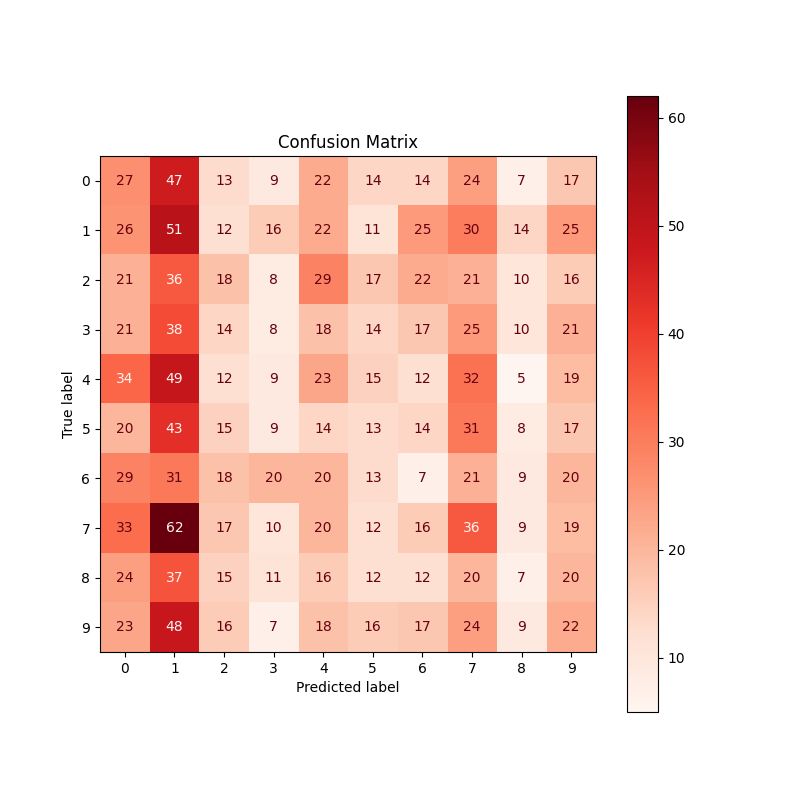
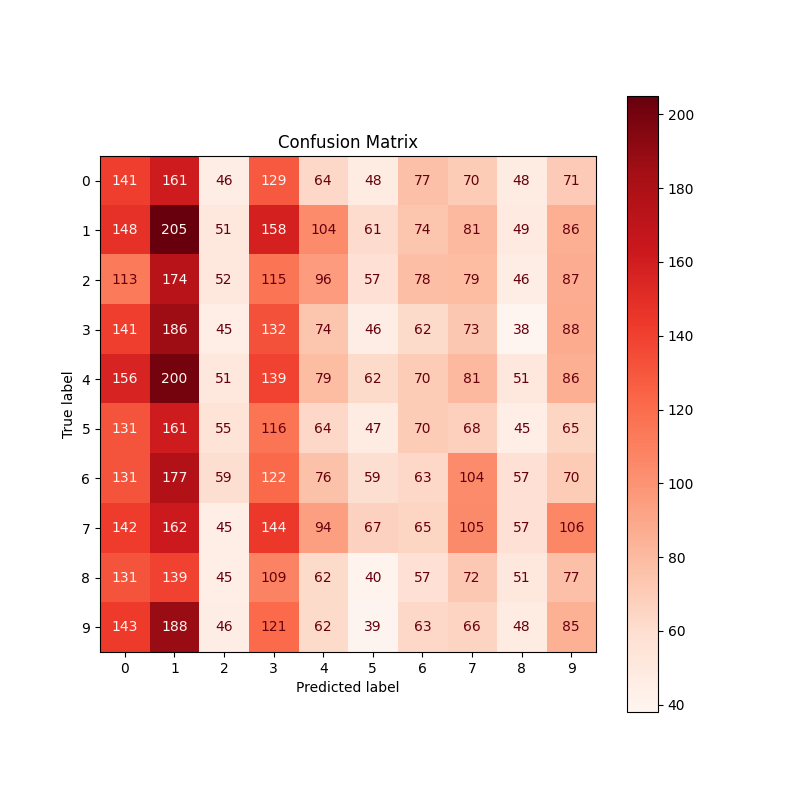
first time spike, svc with rbf kernel

diff --git a/main.py b/main.py
@@ -21,15 +21,15 @@ from collections import defaultdict
 # Device setup
 device = torch.device("cuda" if torch.cuda.is_available() else "cpu")
 if(torch.cuda.is_available):
-    torch.cuda.manual_seed(1010238)
+    torch.cuda.manual_seed(0)
 else:
-    torch.manual_seed(1010238)
+    torch.manual_seed(0)
 print(f"Using device: {device}")
 
 # Parameters
 n_epochs = 3
 update_interval = 1
-numNeurons = 121
+numNeurons = 196
 simTime = 100
 
 # Dataset and encoding
@@ -102,12 +102,35 @@ for i in range(n_epochs * len(mnist_data)):
     spike_monitor.reset_state_variables()
 
     spike_counts = spike_record.sum(0).cpu().numpy()
-    X_train.append(spike_counts)
+    # Calculate first-spike time for each neuron (if it ever spikes)
+    spike_record_np = spike_record.cpu().numpy()  # shape: (simTime, numNeurons)
+    first_spike_time = np.where(spike_record_np > 0, np.arange(simTime)[:, None], np.inf)
+    first_spike_time = first_spike_time.min(axis=0)  # shape: (numNeurons,)
+    first_spike_time[first_spike_time == np.inf] = simTime  # Use max simTime if no spike
+
+    # Combine with spike_counts for train features
+    features = np.concatenate([spike_counts, first_spike_time])
+    X_train.append(features)
     y_train.append(int(label))
 
+    #X_train.append(spike_counts)
+    #y_train.append(int(label))
+
     spike_countsT = spike_recordT.sum(0).cpu().numpy()
-    X_test.append(spike_countsT)
+    # Same thing
+    spike_recordT_np = spike_recordT.cpu().numpy()
+    first_spike_timeT = np.where(spike_recordT_np > 0, np.arange(simTime)[:, None], np.inf)
+    first_spike_timeT = first_spike_timeT.min(axis=0)
+    first_spike_timeT[first_spike_timeT == np.inf] = simTime
+    featuresT = np.concatenate([spike_countsT, first_spike_timeT])
+    X_test.append(featuresT)
     y_test.append(int(label))
+
+    #X_test.append(spike_countsT)
+    #y_test.append(int(label))
+
+
+
 
     spikes = spike_record.sum(0)
     neuron_id = spikes.argmax().item()
@@ -129,7 +152,7 @@ for i in range(numNeurons):
     if total_spikes > 0:
         label = firing_tracker[i].argmax()
         confidence = firing_tracker[i, label] / total_spikes
-        if confidence > 0.15:
+        if confidence > 0.05:
             neuron_label_map[i] = label
 
 #Old prediction method
@@ -165,6 +188,10 @@ for digit in range(10):
     acc = (correct / total * 100) if total > 0 else 0.0
     print(f"Digit {digit}: {acc:.2f}%")
 
+#prints out what neurons are labeled as
+print(Counter(list(neuron_label_map.values())))
+
+
 # Visualization
 output_dir = "outputs"
 os.makedirs(output_dir, exist_ok=True)
@@ -186,7 +213,7 @@ plt.savefig(os.path.join(output_dir, "spike_plot.png"))
 #Grab weight matrix from in to ou neurons
 #Detach goes from pytorch tensor to numpy array and .t makes them separate
 weights = network.connections["X", "Ae"].w.detach().cpu().numpy().T
-fig, axes = plt.subplots(11, 11, figsize=(10, 10))
+fig, axes = plt.subplots(14, 14, figsize=(10, 10))
 for i, ax in enumerate(axes.flatten()):
     if i < numNeurons:
         ax.imshow(weights[i].reshape(28, 28), cmap="hot")

diff --git a/rerun.py b/rerun.py
@@ -3,6 +3,9 @@ from sklearn.linear_model import LogisticRegression
 from sklearn.metrics import accuracy_score, confusion_matrix, ConfusionMatrixDisplay
 import matplotlib.pyplot as plt
 from sklearn.ensemble import RandomForestClassifier #replacement for logisitic regression
+from sklearn.preprocessing import StandardScaler
+from sklearn.svm import SVC
+
 
 # Load
 with open("outputs/X_train.pkl", "rb") as f: X_train = pickle.load(f)
@@ -22,8 +25,21 @@ if X_test.ndim > 2:
     X_test = X_test.reshape(X_test.shape[0], -1)
     
 clf = RandomForestClassifier(n_estimators=100, random_state=0)
+
+#Normalize features for classifier
+scaler = StandardScaler()
+X_train = scaler.fit_transform(X_train)
+X_test = scaler.transform(X_test)
+
+#Old method
+#clf.fit(X_train, y_train)
+#y_pred = clf.predict(X_test)
+
+clf = SVC(kernel='rbf', C=1, gamma='scale')
 clf.fit(X_train, y_train)
 y_pred = clf.predict(X_test)
+
+
 accuracy = accuracy_score(y_test, y_pred)
 print(f"Supervised test accuracy: {accuracy * 100:.2f}%")
 
